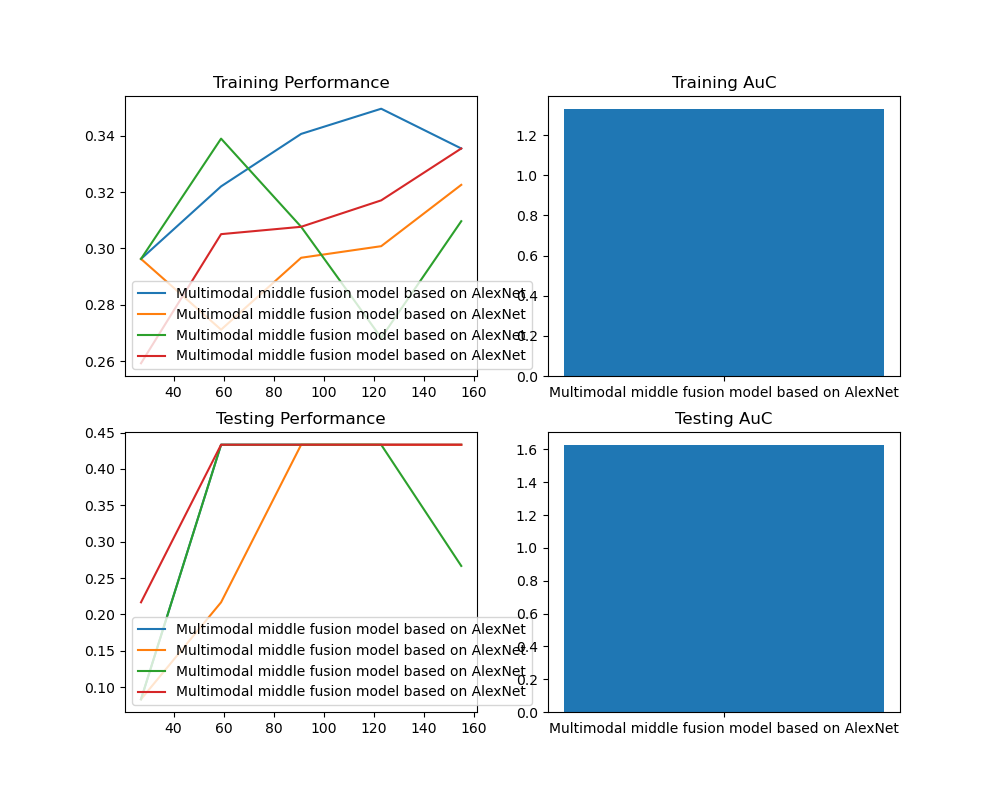
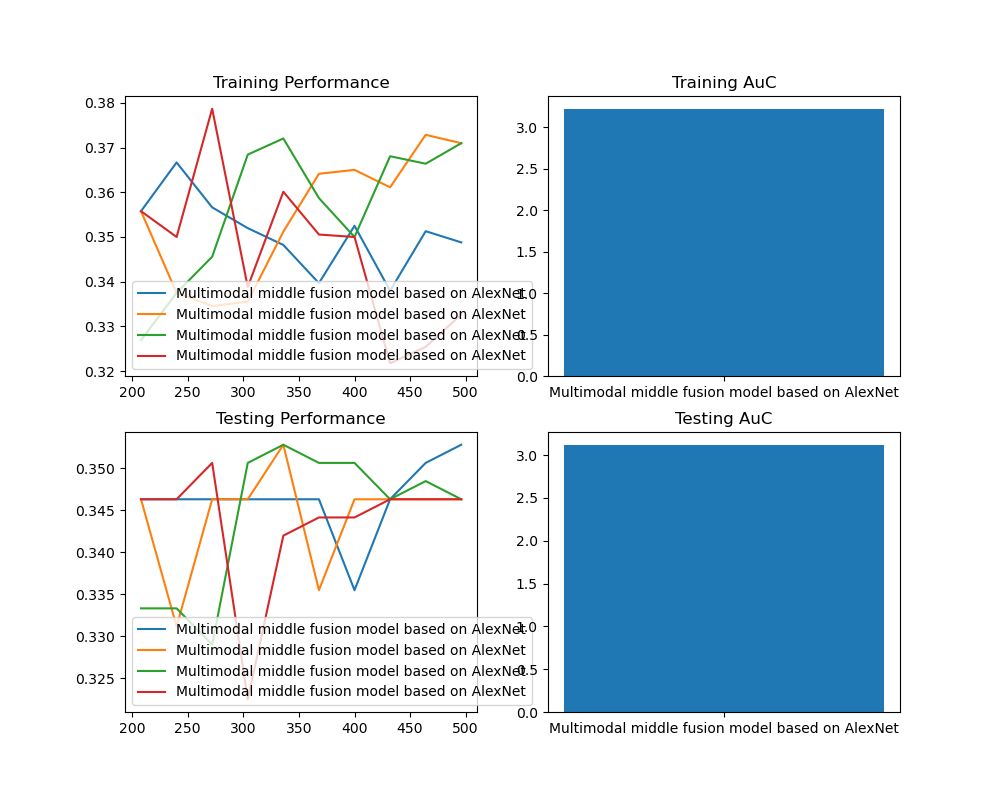
run overnight

diff --git a/experiments/MiddleFusionCNNBaseline.py b/experiments/MiddleFusionCNNBaseline.py
@@ -7,6 +7,7 @@ from test_framework.tester import Tester
 import numpy as np
 from utils.data_utils import get_kaggle_satellite_image_classification_dataset_as_numpy_arrays
 from active_learning import categorical_query_functions as query_functions
+import collections
 
 PATH_TO_DATA = "../data/kaggle_satellite_image_classification"
 active_learning_functions = [query_functions.RANDOM, query_functions.MIN_MAX, query_functions.MAX_ENTROPY, query_functions.MIN_MARGIN]
@@ -36,15 +37,15 @@ if __name__ == "__main__":
 
     tester_y_onehot = np.zeros((tester_y.size, 4))
     tester_y_onehot[np.arange(tester_y.size),tester_y] = 1
-    import collections
-    print(collections.Counter(tester_y))
-    print(collections.Counter(first_modality[1]))
+    print("distribution of samples over the entire dataset:",collections.Counter(tester_y))
+    # print(collections.Counter(first_modality[1]))
 
     # define tester
-    tester = Tester(tester_x1, tester_x2, x2_image_counts, tester_y_onehot, training_epochs=10, active_learning_loop_count=10)
+    tester = Tester(tester_x1, tester_x2, x2_image_counts, tester_y_onehot, training_epochs=1, active_learning_loop_count=1)
     tester.INITIAL_TRAIN_DATA_FRACTION = 0.05
 
     for i,active_learning_function in enumerate(active_learning_functions):
+        print(f"Active learning function: {active_learning_function_descriptions[i]}")
         # define model
         multimodal_model = MiddleFusionModel(active_learning_function=active_learning_function)
 
@@ -52,4 +53,6 @@ if __name__ == "__main__":
         tester.test_model(multimodal_model)
 
     # get results
+    print("")
+    print([mr.__dict__ for mr in tester.model_results])
     tester.plot_results()

diff --git a/test_framework/tester.py b/test_framework/tester.py
@@ -118,7 +118,7 @@ class Tester:
             for al_loop in al_loop_range:
                 # Train Model on current training data
                 pre_train_time = time.time()
-                al_loop_range.set_description(f"Test {test}")
+                al_loop_range.set_description(f"Test {test}: Data size {train_x1.shape[0]}: ")
 
                 # Trigger training epoch
                 model.train(train_x1,train_x2,train_x2_image_counts, train_y)
